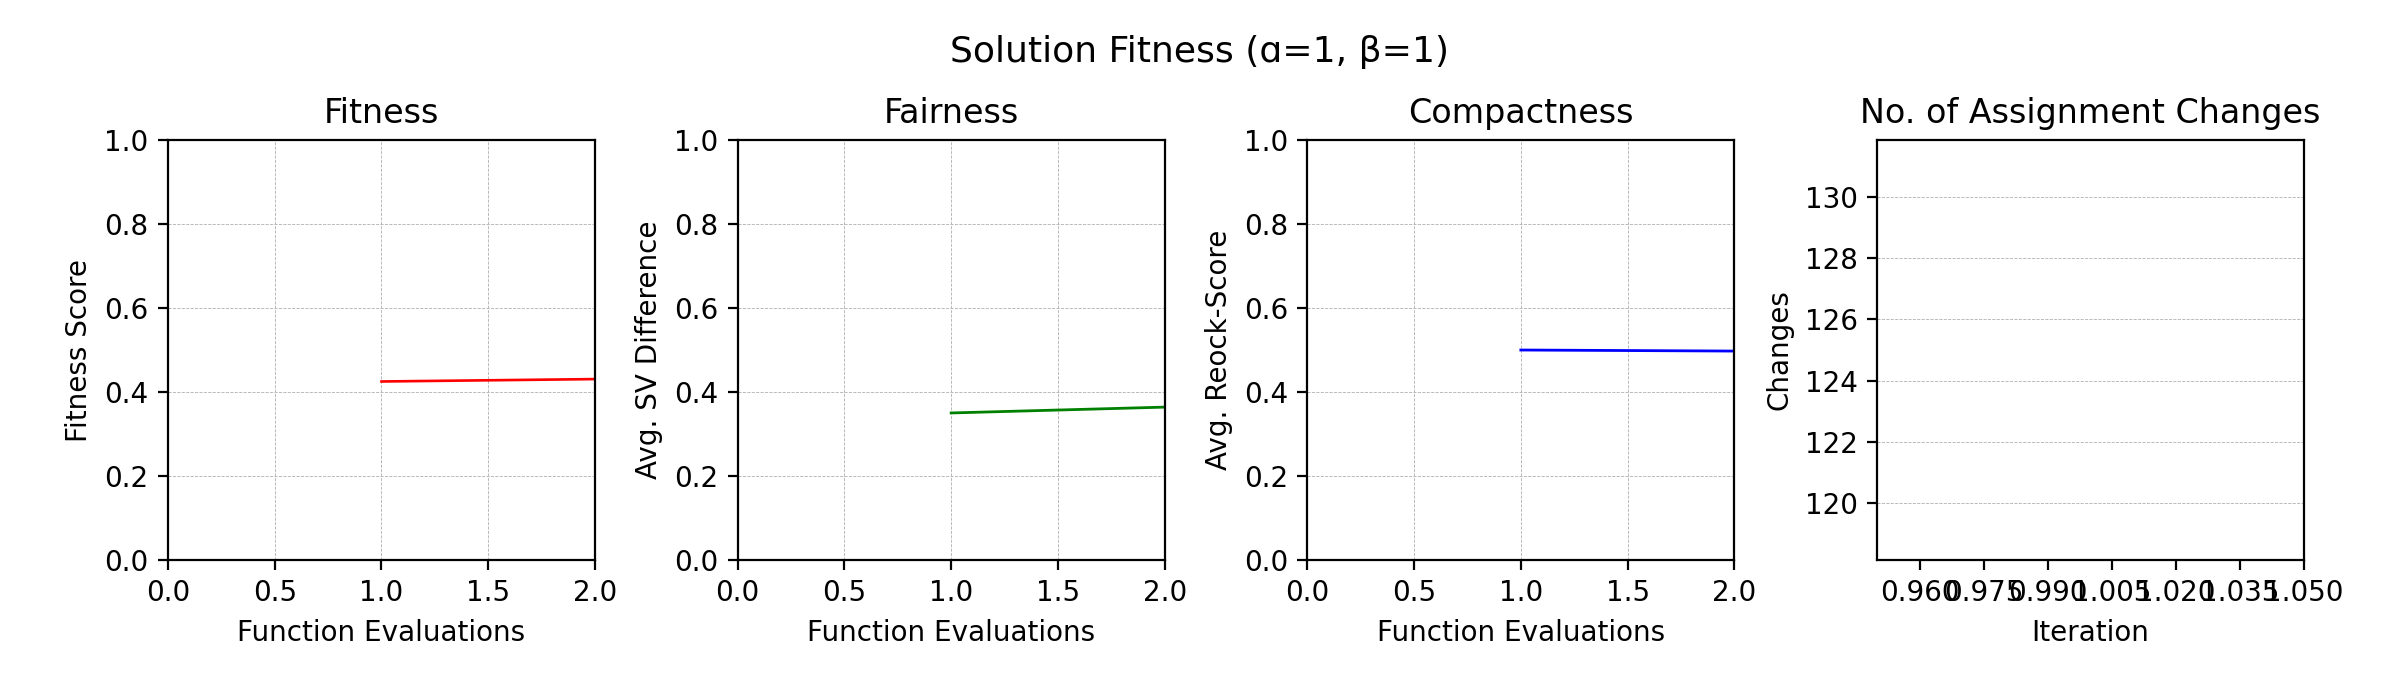
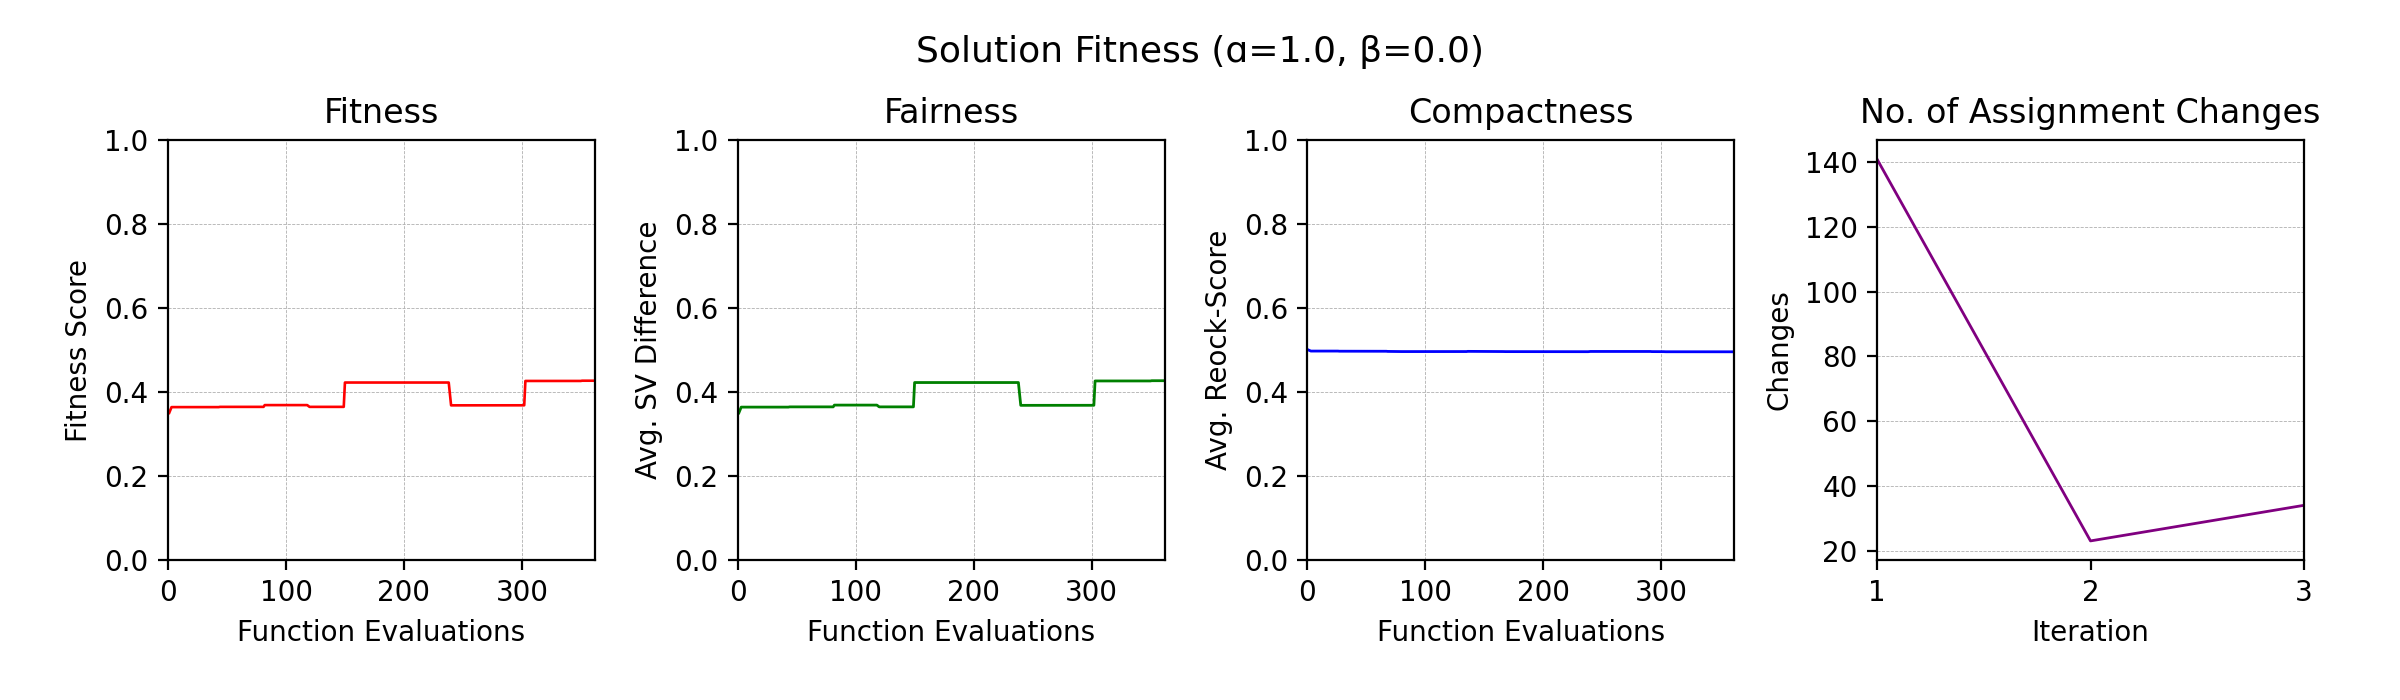
Changed status outputs & updated readme

diff --git a/redistricter.py b/redistricter.py
@@ -1,12 +1,15 @@
 import json, copy, math, sys
+
 import numpy as np
 import random as rnd
 import networkx as nx
+
 from plotter import *
 from reporter import *
-from geopy.distance import geodesic
+
 from scipy.stats import boltzmann
 from scipy.spatial import distance
+from geopy.distance import geodesic
 
 protected_constituencies = ['W07000041', # Ynys Môn (Anglesey)
                             'S14000051', # Orkney and Shetland
@@ -32,7 +35,7 @@ class Redistricter:
         if create_plotter: self.stats_reporter = Reporter(plotter=Plotter(verbose=True), progress_bar=show_progress)
         else: self.stats_reporter = Reporter(progress_bar=show_progress)
 
-    def generate_map(self, kmax, f_m=1, f_alpha=1, f_beta=1, improvements=100, reward_factor=0.8, penalisation_factor=0.6, compensation_factor=0.8, electorate_deviation=0.05, video_filename=None, save_final_json=True, plot_random_colours=False, compactness_stage_length=0, verbose=False):
+    def generate_map(self, kmax, f_m=1, f_alpha=1, f_beta=1, improvements=100, reward_factor=0.8, penalisation_factor=0.7, compensation_factor=0.8, electorate_deviation=0.05, video_filename=None, save_final_json=True, plot_random_colours=False, compactness_stage_length=0, verbose=False):
 
         if video_filename != None and self.stats_reporter.plotter == None:
             print('Class REDISTRICTER WARNING: Video filename given, but \'stats_reporter\' has no \'Plotter\'.')
@@ -58,8 +61,7 @@ class Redistricter:
                                     electorate_deviation=electorate_deviation,
                                     reporter=self.stats_reporter)
        
-        self.f_alpha = f_alpha
-        self.f_beta = f_beta
+        self.f_alpha, self.f_beta = f_alpha, f_beta
         initial_fitness, initial_fairness, initial_compactness, initial_results = initial_solution.evaluate(self.f_alpha, self.f_beta, run_election=True)
         if verbose:
             print('Initial solution:\n  Fitness: {0}\n  Fairness: {1}\n  Compactness: {2}\n'.format(round(initial_fitness, 6), round(initial_fairness, 6), round(initial_compactness, 6)))
@@ -68,7 +70,7 @@ class Redistricter:
         random_colours = None
         if plot_random_colours:
             random_colours = {}
-            for constituency in self.constituencies.keys(): random_colours[constituency] = "#%06x" % random.randint(0, 0xFFFFFF)
+            for constituency in self.constituencies.keys(): random_colours[constituency] = "#%06x" % rnd.randint(0, 0xFFFFFF)
 
         if video_filename != None and self.stats_reporter.plotter != None:
             self.stats_reporter.record_video_frame(self.wards, self.constituencies, 0, text='Initial Solution', random_colours=random_colours, frame_repeats=3)
@@ -80,6 +82,9 @@ class Redistricter:
         kmax += compactness_stage_length
         no_changes = math.inf
 
+        if compactness_stage_length > 0: stage_text = "(1st Stage)"
+        else: stage_text = ""
+        
         self.stats_reporter.kmax = kmax
         self.stats_reporter.start_time = time.time()
         self.stats_reporter.update_stats([initial_fitness, initial_fairness, initial_compactness], initial_results['national_votes'], k=k)
@@ -92,7 +97,7 @@ class Redistricter:
                                         self.probability_matrix,
                                         self.distance_matrix,
                                         protected_constituencies=self.protected_constituencies,
-                                        selection_method='hybrid-selection',
+                                        selection_method='acceptance-selection',
                                         electoral_quota=electoral_quota,
                                         electorate_deviation=electorate_deviation,
                                         selection_threshold=0.9,
@@ -111,22 +116,26 @@ class Redistricter:
 
             k += 1
 
-            self.stats_reporter.update_stats([current_fitness, current_wvs, current_lwr], current_results['national_votes'], no_changes=no_changes, k=k)
+            self.stats_reporter.update_stats([current_fitness, current_wvs, current_lwr], current_results['national_votes'], no_changes=no_changes, k=k, stage_text=stage_text)
             self.wards, self.constituencies = current_solution.wards, current_solution.constituencies
 
             if video_filename != None and self.stats_reporter.plotter != None:
-                self.stats_reporter.record_video_frame(self.wards, self.constituencies, k, text='Iteration: {0}, Fitness: {1}'.format(k, round(current_fitness, 4)), random_colours=random_colours)
+                self.stats_reporter.record_video_frame(self.wards, self.constituencies, k, text='Iteration: {0}, Fitness: {1} {2}'.format(k, round(current_fitness, 4), stage_text), random_colours=random_colours)
 
             if no_changes == 0: print('\nNo changes were made during local search!')
 
-            if compactness_stage_length != 0 and k == kmax - compactness_stage_length: self.f_alpha, self.f_beta = 0, 1
+            if compactness_stage_length != 0 and k == kmax - compactness_stage_length:
+                self.f_alpha, self.f_beta = 0, 1
+                stage_text = "(2nd stage)"
 
+        self.f_alpha, self.f_beta = f_alpha, f_beta
+        
         if video_filename != None and self.stats_reporter.plotter != None:
             self.stats_reporter.generate_image_video(video_filename, delete_frames=False)
 
         self.stats_reporter.close(show_plot=True, save_plot='images/graphs/performance.png', plot_title='Solution Fitness (ɑ='+str(f_alpha)+', β='+str(f_beta)+')')
         plot_results_comparison_bchart([initial_results['national_votes'], current_results['national_votes']], 'Party Seat Share Comparison: 2017 General Election and Model-generated Results', save_plot='images/graphs/prop_vote.png')
-        plot_seats_grid(current_results['national_votes'], 'horizontal', title='Parliament Seat Share', save_image='images/graphs/seat_share.png')
+        plot_seats_grid(current_results['national_votes'], 'horizontal', title='Solution: Parliament Seat Shares', save_image='images/graphs/seat_share.png')
 
         print()
         current_solution.run_election(verbose=verbose)
@@ -310,22 +319,22 @@ class Solution:
         """
         Starts group selection method, assigning wards to constituencies:
         :param method 'default': Wards are not changed from dictionary assignments
-        :param method 'hybrid-selection': Use a hybrid roulette wheel / greedy selection
+        :param method 'acceptance-selection': Assign wards using an acceptance selection method
         :param method 'random-selection': Assign wards completely at random
         :param method 'voronoi-selection': Assign wards using a voronoi tessellation
         :return bool: Denotes whether a valid method was given
         """
 
-        if method.upper() not in ['DEFAULT', 'HYBRID-SELECTION', 'RANDOM-SELECTION', 'VORONOI-SELECTION']:
-            print("\nClass SOLUTION ERROR: Invalid selection method:\n  ↳ Must be 'default', 'hybrid-selection', 'random-selection' or 'voronoi-selection', not '"+method.upper()+"'.")
+        if method.upper() not in ['DEFAULT', 'ACCEPTANCE-SELECTION', 'RANDOM-SELECTION', 'VORONOI-SELECTION']:
+            print("\nClass SOLUTION ERROR: Invalid selection method:\n  ↳ Must be 'default', 'acceptance-selection', 'random-selection' or 'voronoi-selection', not '"+method.upper()+"'.")
             exit()
-        elif method.upper() in ['HYBRID-SELECTION', 'VORONOI-SELECTION']:
+        elif method.upper() in ['ACCEPTANCE-SELECTION', 'VORONOI-SELECTION']:
             if threshold is None or not isinstance(threshold, float) or threshold > 1 or threshold < 0:
                 print("\nClass SOLUTION ERROR: Invalid selection threshold:\n  ↳ The '"+method.upper()+"' method requires a threshold value as a float (0 <= x <= 1), not type "+str(type(threshold))+".")
                 exit()
             
-        if method.upper() == 'HYBRID-SELECTION':
-            self.hybrid_selection(threshold)
+        if method.upper() == 'ACCEPTANCE-SELECTION':
+            self.acceptance_selection(threshold)
         elif method.upper() == 'RANDOM-SELECTION':
             self.random_selection()
         elif method.upper() == 'VORONOI-SELECTION':
@@ -354,10 +363,12 @@ class Solution:
 
         self.merge_constituency_wards()
 
-    def hybrid_selection(self, hybrid_threshold, verbose=False):
+    def acceptance_selection(self, hybrid_threshold):
         """
-        Assign wards either using a roulette wheel or greedy selection
-        method according to a given probability
+        Assigns wards by accepting their neighbouring wards' constituency
+        according to a probability given by the probability matrix. Initial
+        wards for each constituency are assigned using hybrid roulette
+        wheel / greedy selection.
         :param hybrid_threshold: Probability of using greedy selection
         """
         assigned_wards = []
@@ -385,7 +396,7 @@ class Solution:
         prev_length = len(assigned_wards)
         no_assignments = prev_length
         while len(assigned_wards) < len(self.ward_ids):
-            #print(len(assigned_wards), '/', len(self.ward_ids), '-', no_assignments)
+            
             for ward_index, ward_id in enumerate(self.ward_ids):
                 if ward_id in assigned_wards: continue
                 ward = self.wards[ward_id]
@@ -398,7 +409,9 @@ class Solution:
                 if len(neighbours) == 0:
                     assigned_wards.append(ward_id)
                     continue
-
+                
+                # Fetch the constituencies & probability of any neighbouring ward that has already
+                # been assigned a constituency.
                 bordering_constituencies, constituency_probabilities = [], []
                 for neighbour_id in neighbours:
                     neighbour = self.wards[neighbour_id]
@@ -425,10 +438,9 @@ class Solution:
 
                         if assigned_constituency == None:
                             assigned_constituency = possible_cons[0][0]
-                    #assigned_constituency = hybrid_select(bordering_constituencies, constituency_probabilities, hybrid_threshold)
 
                 elif no_assignments == 0:
-                    #print(ward_id, ':', ward['name'])
+                    
                     closest_wards = get_country_constituency_probabilities(self.ward_ids, self.distance_matrix[ward_index], ward['country'], order_by_val=True)
                     
                     for close_ward_id, distance in closest_wards:
@@ -455,8 +467,6 @@ class Solution:
                 print("\nClass SOLUTION ERROR: Constituency has not been assigned any wards.\n  ↳ Constituency: "+constituency['name']+" ("+constituency_id+").")
                 exit()
         self.merge_constituency_wards()
-
-
 
     def voronoi_selection(self, hybrid_threshold, voronoi_threshold=6, contiguity_threshold=10):
         """
@@ -1143,10 +1153,13 @@ if __name__ == "__main__":
     -v:        Run the program verbose
     -rcolours: Use random constituency colours in plots
     
-    -vf <filename>  Create a video with the given filename
-    -k <iterations> Run the simulation for k iterations
-    -falpha <alpha> Set the alpha value for fitness calculations (fairness)
-    -fbeta <beta>   Set the beta value for fitness calculations (compactness)
+    -vf <filename>      Create a video with the given filename
+    -k <iterations>     Number of iterations for the first optimisation phase (main phase)
+    -c <iterations>     Number of iterations for the second optimisation phase, where alpha=0 and beta=1 (default 0)
+    -falpha <alpha>     Set the alpha value for fitness calculations (fairness)
+    -fbeta <beta>       Set the beta value for fitness calculations (compactness)
+    -ims <improvements> Set the number of improvements during the local search phase
+    -seed <rnd_seed>    Sets the random seed for the model
     """
     verbose = '-v' in sys.argv
     skip_plotter = '-m' not in sys.argv

diff --git a/plotter.py b/plotter.py
@@ -1,12 +1,14 @@
-import json, os, sys, math, cv2
-import geopandas as gpd
-import matplotlib.pyplot as plt
-import pandas as pd
+import sys, math
+
 import numpy as np
-import random
+import pandas as pd
+import geopandas as gpd
+
 from PIL import Image, ImageDraw, ImageFont
-from mpl_toolkits.axes_grid1 import make_axes_locatable
+
+import matplotlib.pyplot as plt
 from matplotlib.ticker import MaxNLocator
+from mpl_toolkits.axes_grid1 import make_axes_locatable
 
 party_colours = {'conservatives': ['#0087DC', 'Blues'],
                  'labour': ['#DC241f', 'Reds'],
@@ -318,8 +320,8 @@ def plot_seats_grid(results, rotation='horizontal', cols=13, seat_radius=60, sea
         image_height = margin[1] + margin[3] + ((seat_radius * 2) * n_cols) + (seat_spacing * (n_cols - 1))
     
     image_dimensions = (image_width, image_height)
-    image = Image.new('RGBA', image_dimensions, "WHITE")
-    draw = ImageDraw.Draw(image)
+    grid_image = Image.new('RGBA', image_dimensions, "WHITE")
+    draw = ImageDraw.Draw(grid_image)
     
     if title != None:
         title_location = ((image_width - title_width) / 2, title_height / 2)
@@ -363,9 +365,9 @@ def plot_seats_grid(results, rotation='horizontal', cols=13, seat_radius=60, sea
             if rotation == 'vertical': coors = (coors[0] + (seat_radius * 2) + seat_spacing, coors[1])
             elif rotation == 'horizontal': coors = (coors[0], coors[1] + (seat_radius * 2) + seat_spacing)
 
-    if show_image: image.show()
+    if show_image: grid_image.show()
     if save_image != None:
-        Image.save(save_image)
+        grid_image.save(save_image)
 
 def get_text_dimensions(text_string, font):
     _, descent = font.getmetrics()

diff --git a/reporter.py b/reporter.py
@@ -1,6 +1,7 @@
+from plotter import *
+
 import cv2, time, os.path, csv
 from os import remove as delete_frame
-from plotter import *
 from datetime import datetime, timedelta
 
 party_colours = {'conservatives': ['#0087DC', 'Blues'],
@@ -95,7 +96,7 @@ class Reporter:
             for frame in self.maps:
                 delete_frame(frame)
 
-    def update_stats(self, fitness_metrics, vote_shares=None, no_changes=None, k=None):
+    def update_stats(self, fitness_metrics, vote_shares=None, no_changes=None, k=None, stage_text=""):
         if k != None:
             self.k = k
         if self.log_writer != None:
@@ -112,7 +113,7 @@ class Reporter:
             self.logs.append(curr_log)
 
         if self.generate_progress_bar:
-            generate_progress_bar(self.k, self.kmax, 'k: {0}/{1} ({2}), fitness: {3} '.format(self.k, self.kmax, str(timedelta(seconds=int(time.time() - self.start_time))), round(fitness_metrics[0], 6)), prefix='Progress: ')
+            generate_progress_bar(self.k, self.kmax, 'k: {0}/{1} ({2}), fitness: {3} {4}'.format(self.k, self.kmax, str(timedelta(seconds=int(time.time() - self.start_time))), round(fitness_metrics[0], 6), stage_text), prefix='Progress: ')
         if self.k == self.kmax: print()
 
     def close(self, show_plot=True, plot_title=None, save_plot=None, verbose=True):

diff --git a/README.md b/README.md
@@ -5,7 +5,9 @@ This redistricter has been developed as part of my dissertation for the final ye
 
 The project is being applied to the UK, especially with the current boundary review set to be completed in 2023, and aims to directly optimise solutions for fairness, unlike many papers within the literature. This is done using comparisons between party seat share and proportional vote, alongside some compactness measures and legal constraints to ensure the model is able to produce reasonable results, whilst still being able to best represent the electorate.
 
-<img width="600" alt="south" src="https://user-images.githubusercontent.com/62618224/161809829-1a0d43fb-a570-40de-a3ea-a2b02b6a2361.png">
+<p align="center" width="100%">
+    <img width="600" alt="south" src="https://user-images.githubusercontent.com/62618224/161809829-1a0d43fb-a570-40de-a3ea-a2b02b6a2361.png">
+</p>
 
 If you have any questions, feel free to send me an email at ce347@exeter.ac.uk, or contact me on my website at [callum-evans.co.uk](https://callum-evans.co.uk/)
 
@@ -21,17 +23,21 @@ The project has been developed using Python 3.8.12, and requires a number of ext
 - OpenCV
 - Matplotlib
 
-## Dataset
+## Datasets
 
 The model uses a dataset that covers the over 9,500 wards in England, Wales, Scotland and Northern Ireland, with socio-demographic data collected from the 2011 census. Ward-level election results have then been generated using this data and a linear regression model trained on constituency party support from the 2017 general election.
 
 However, once re-combined to the constituency-level, there is a small difference between the real results and the model results, as shown in the table below:
 
-<img width="500" alt="diff_table" src="https://user-images.githubusercontent.com/62618224/161809783-ac13c34f-ce49-4381-bb4b-b08fcf13165b.png">
+<p align="center" width="100%">
+    <img width="500" alt="diff_table" src="https://user-images.githubusercontent.com/62618224/161809783-ac13c34f-ce49-4381-bb4b-b08fcf13165b.png">
+</p>
 
 GeoPackage files containing the boundaries for each country are also required in order to map solutions. In which case, England and Wales use the 2011 boundaries available from the ONS, Scotland uses the 2014 boundaries from Boundaries Scotland and Northern Ireland uses the 1993 boundaries from OpenDataNI.
 
 All wards and constituencies are referred to using their ONS code, (England E05 / E14, Wales W05 / W06, Scotland S13 / S14, Northern Ireland N08 / N06), except for the City of London, which uses the London borough boundaries (E09) due to data availability from the 2011 census.
+
+The selection methods used within the algorithm also require a distance matrix storing the distances between each ward, which has to be created when the model is first run, done using the `generate_matrices(load_distances=False)` function.
 
 ## Usage
 
@@ -49,8 +55,14 @@ The redistricter object can be defined and used within code by itself, but comma
     -falpha <alpha>     Set the alpha value for fitness calculations (fairness)
     -fbeta <beta>       Set the beta value for fitness calculations (compactness)
     -ims <improvements> Set the number of improvements during the local search phase
-    -seed <rnd_seed>    Sets the random seed for 
+    -seed <rnd_seed>    Sets the random seed for the model
     
+For example, the following command:
+
+```python3 redistricter.py -k 10 -c 2 -ims 100 -vf test.mp4 -falpha 0.8 -fbeta 0.2 -v```
+
+will run for 12 iterations (10 for the first stage and 2 more for the second stage, optimising only for fairness), with 100 steps during the local search. The model will be run during the first stage with an alpha value of 0.8, and a beta value of 0.2, and the maps at each stage will be collected into a video called "test.mp4" (saved in the video directory).
+
 ## Examples
 
 Below is a video from earlier in development showing how maps are generated. This example uses a voronoi selection method to assign wards during the selection phase.
